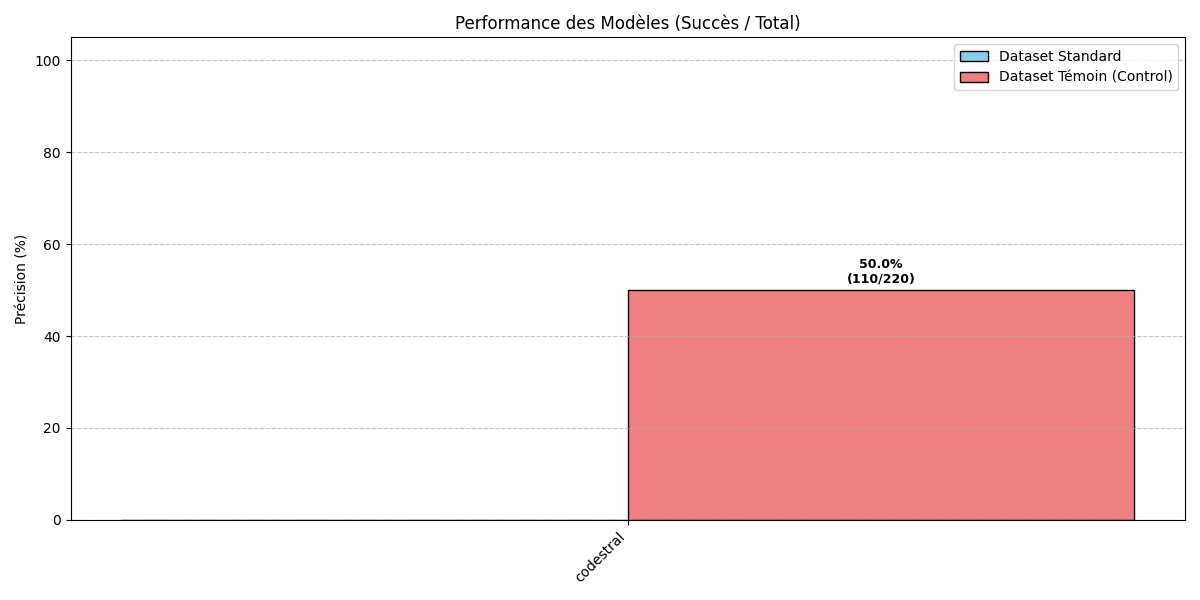
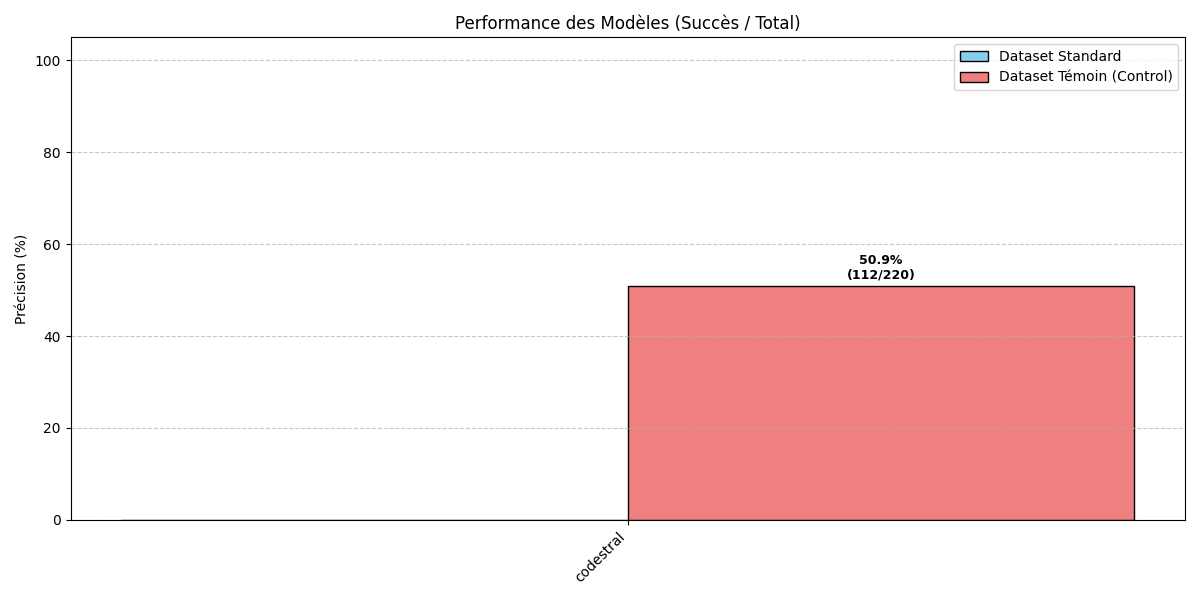
just ran the control with codestral

Changed region(s): [[0.5242, 0.42, 0.9558, 0.51]]

diff --git a/src/cleaning.py b/src/cleaning.py
@@ -36,6 +36,19 @@ def extract_code_and_fix(llm_response):
         code_blocks.append(llm_response.strip())
 
     full_code = "\n".join(code_blocks)
+
+    # for when the result= part is not between markdowns
+    if "result =" not in full_code and "result=" not in full_code:
+        rescue_pattern = r"^\s*result\s*=.*"
+        
+        potential_lines = re.findall(rescue_pattern, llm_response, re.MULTILINE)
+        
+        if potential_lines:
+            rescued_line = potential_lines[-1].strip()
+            
+            if not rescued_line.startswith("#"):
+                full_code += "\n" + rescued_line
+
     full_code = fix_unexpected_indent(full_code)
 
     lines = full_code.split('\n')
